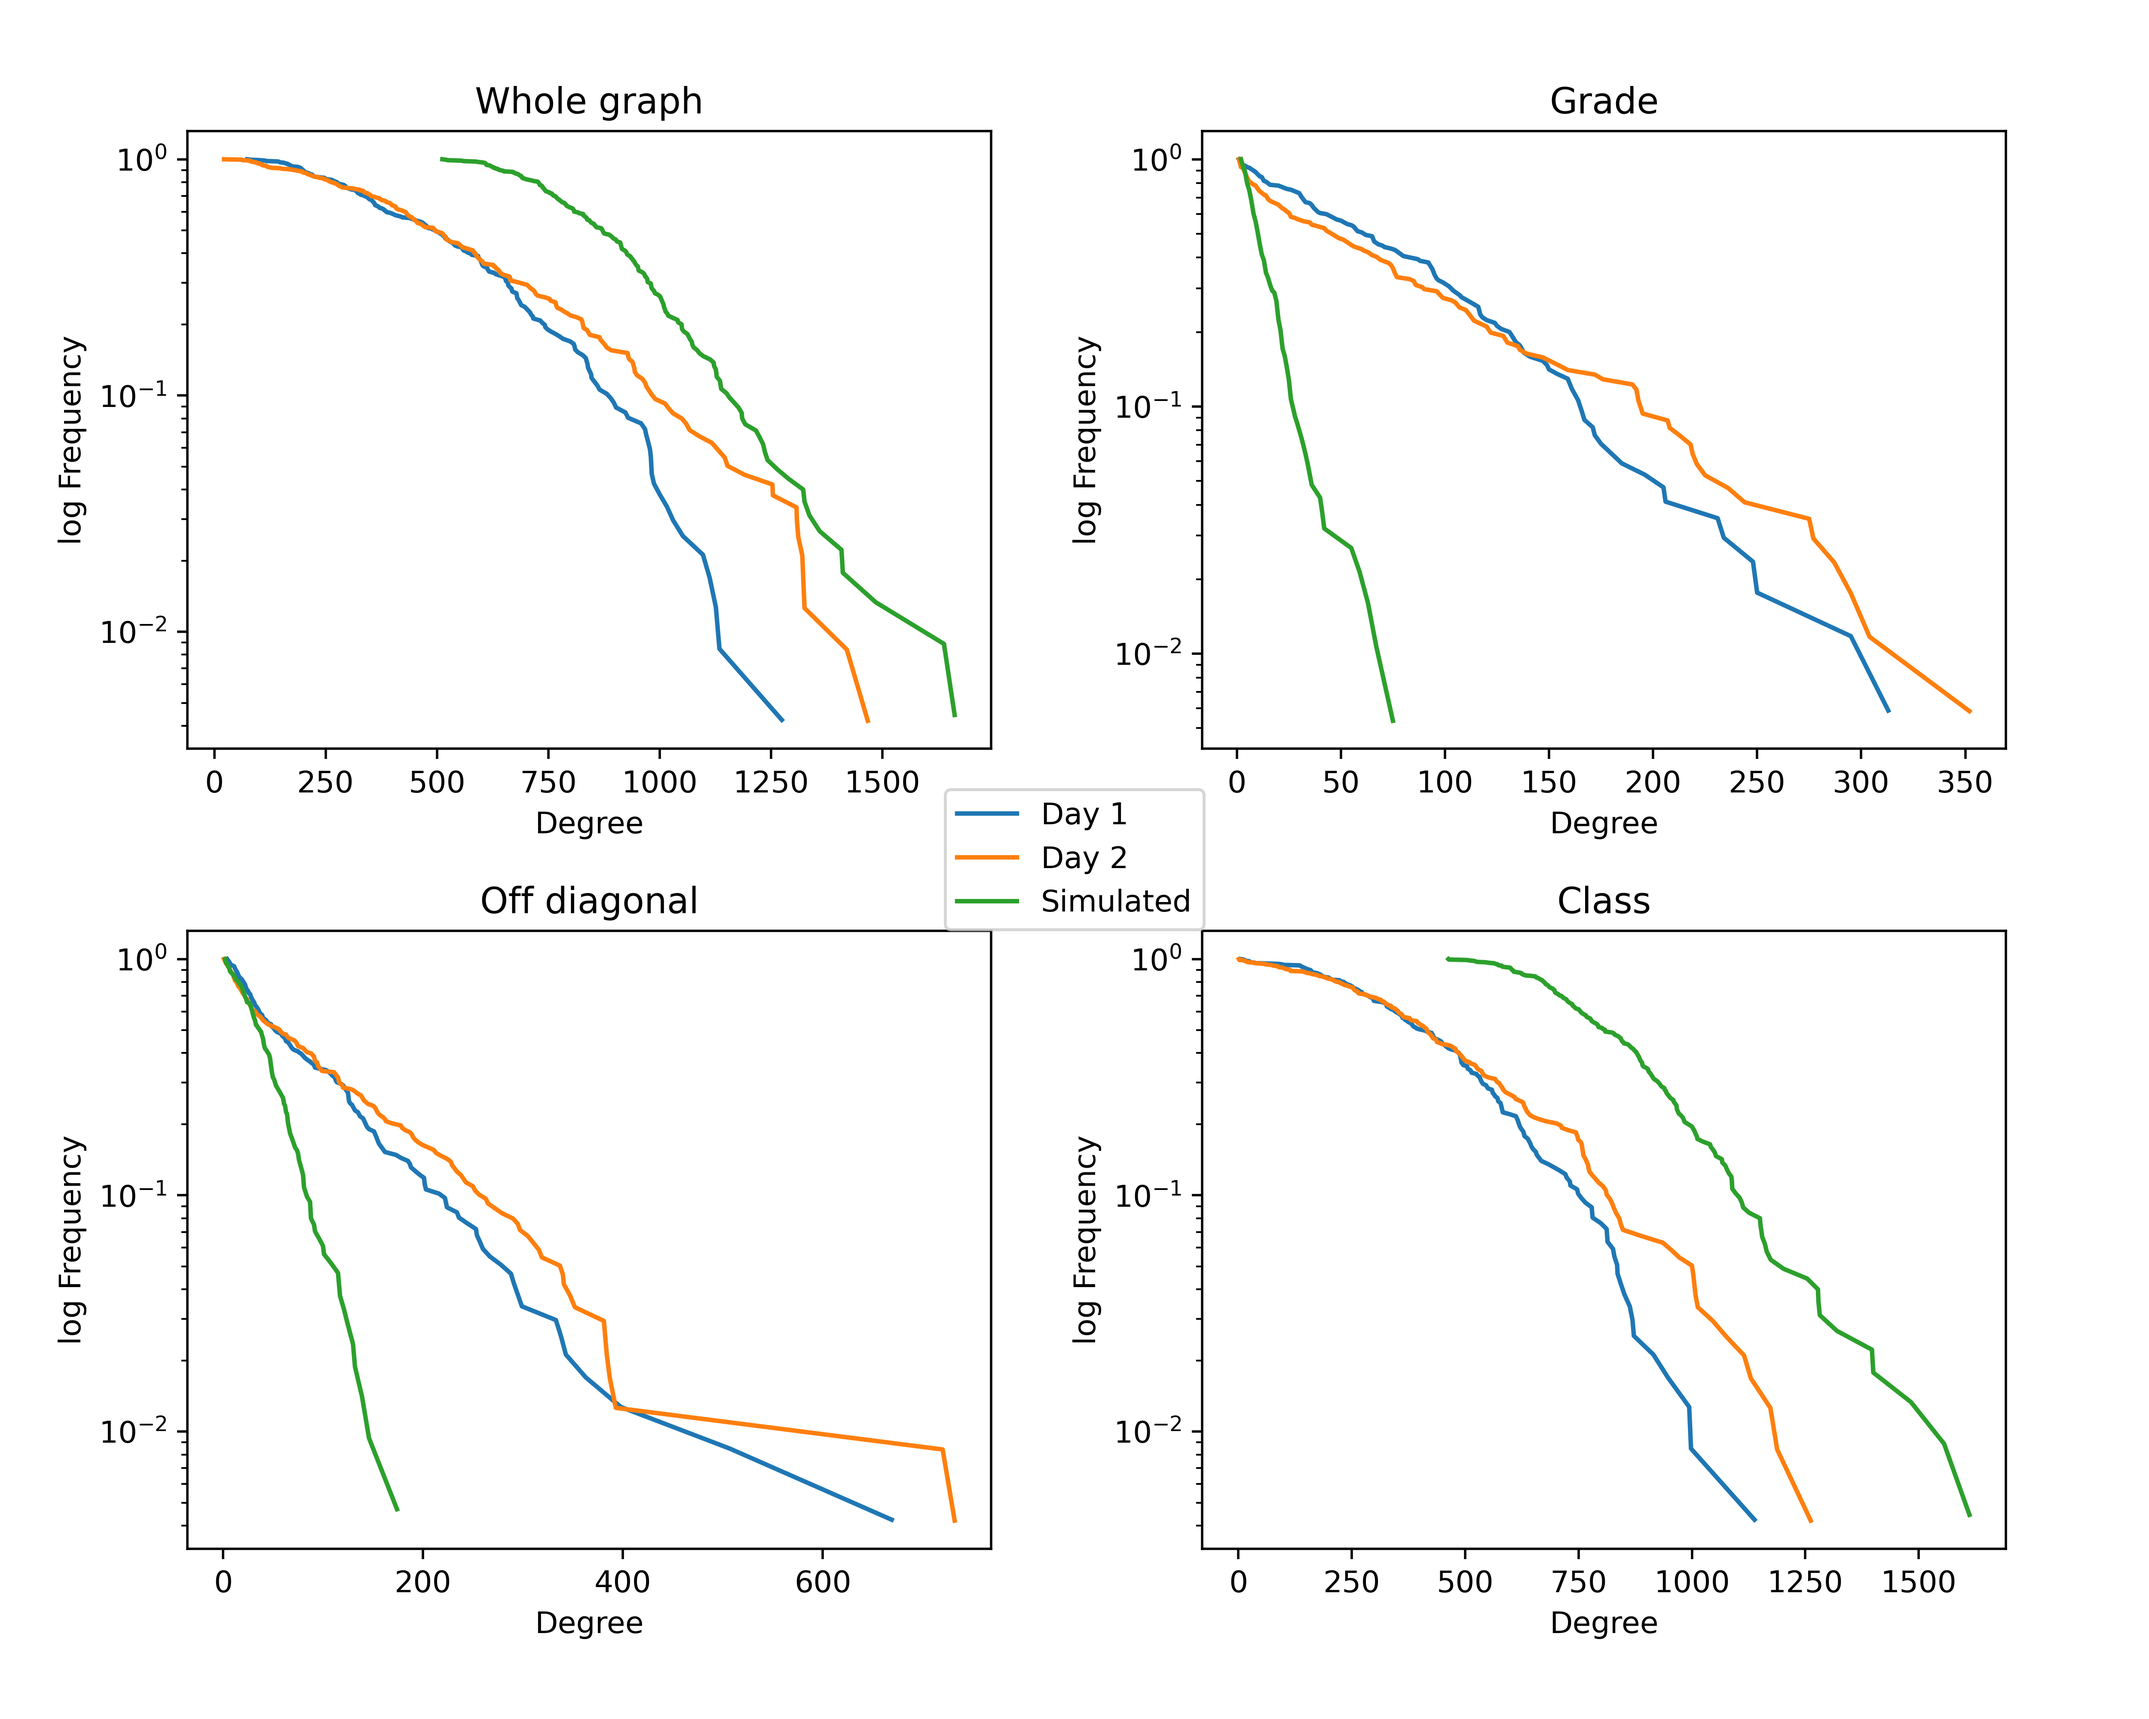
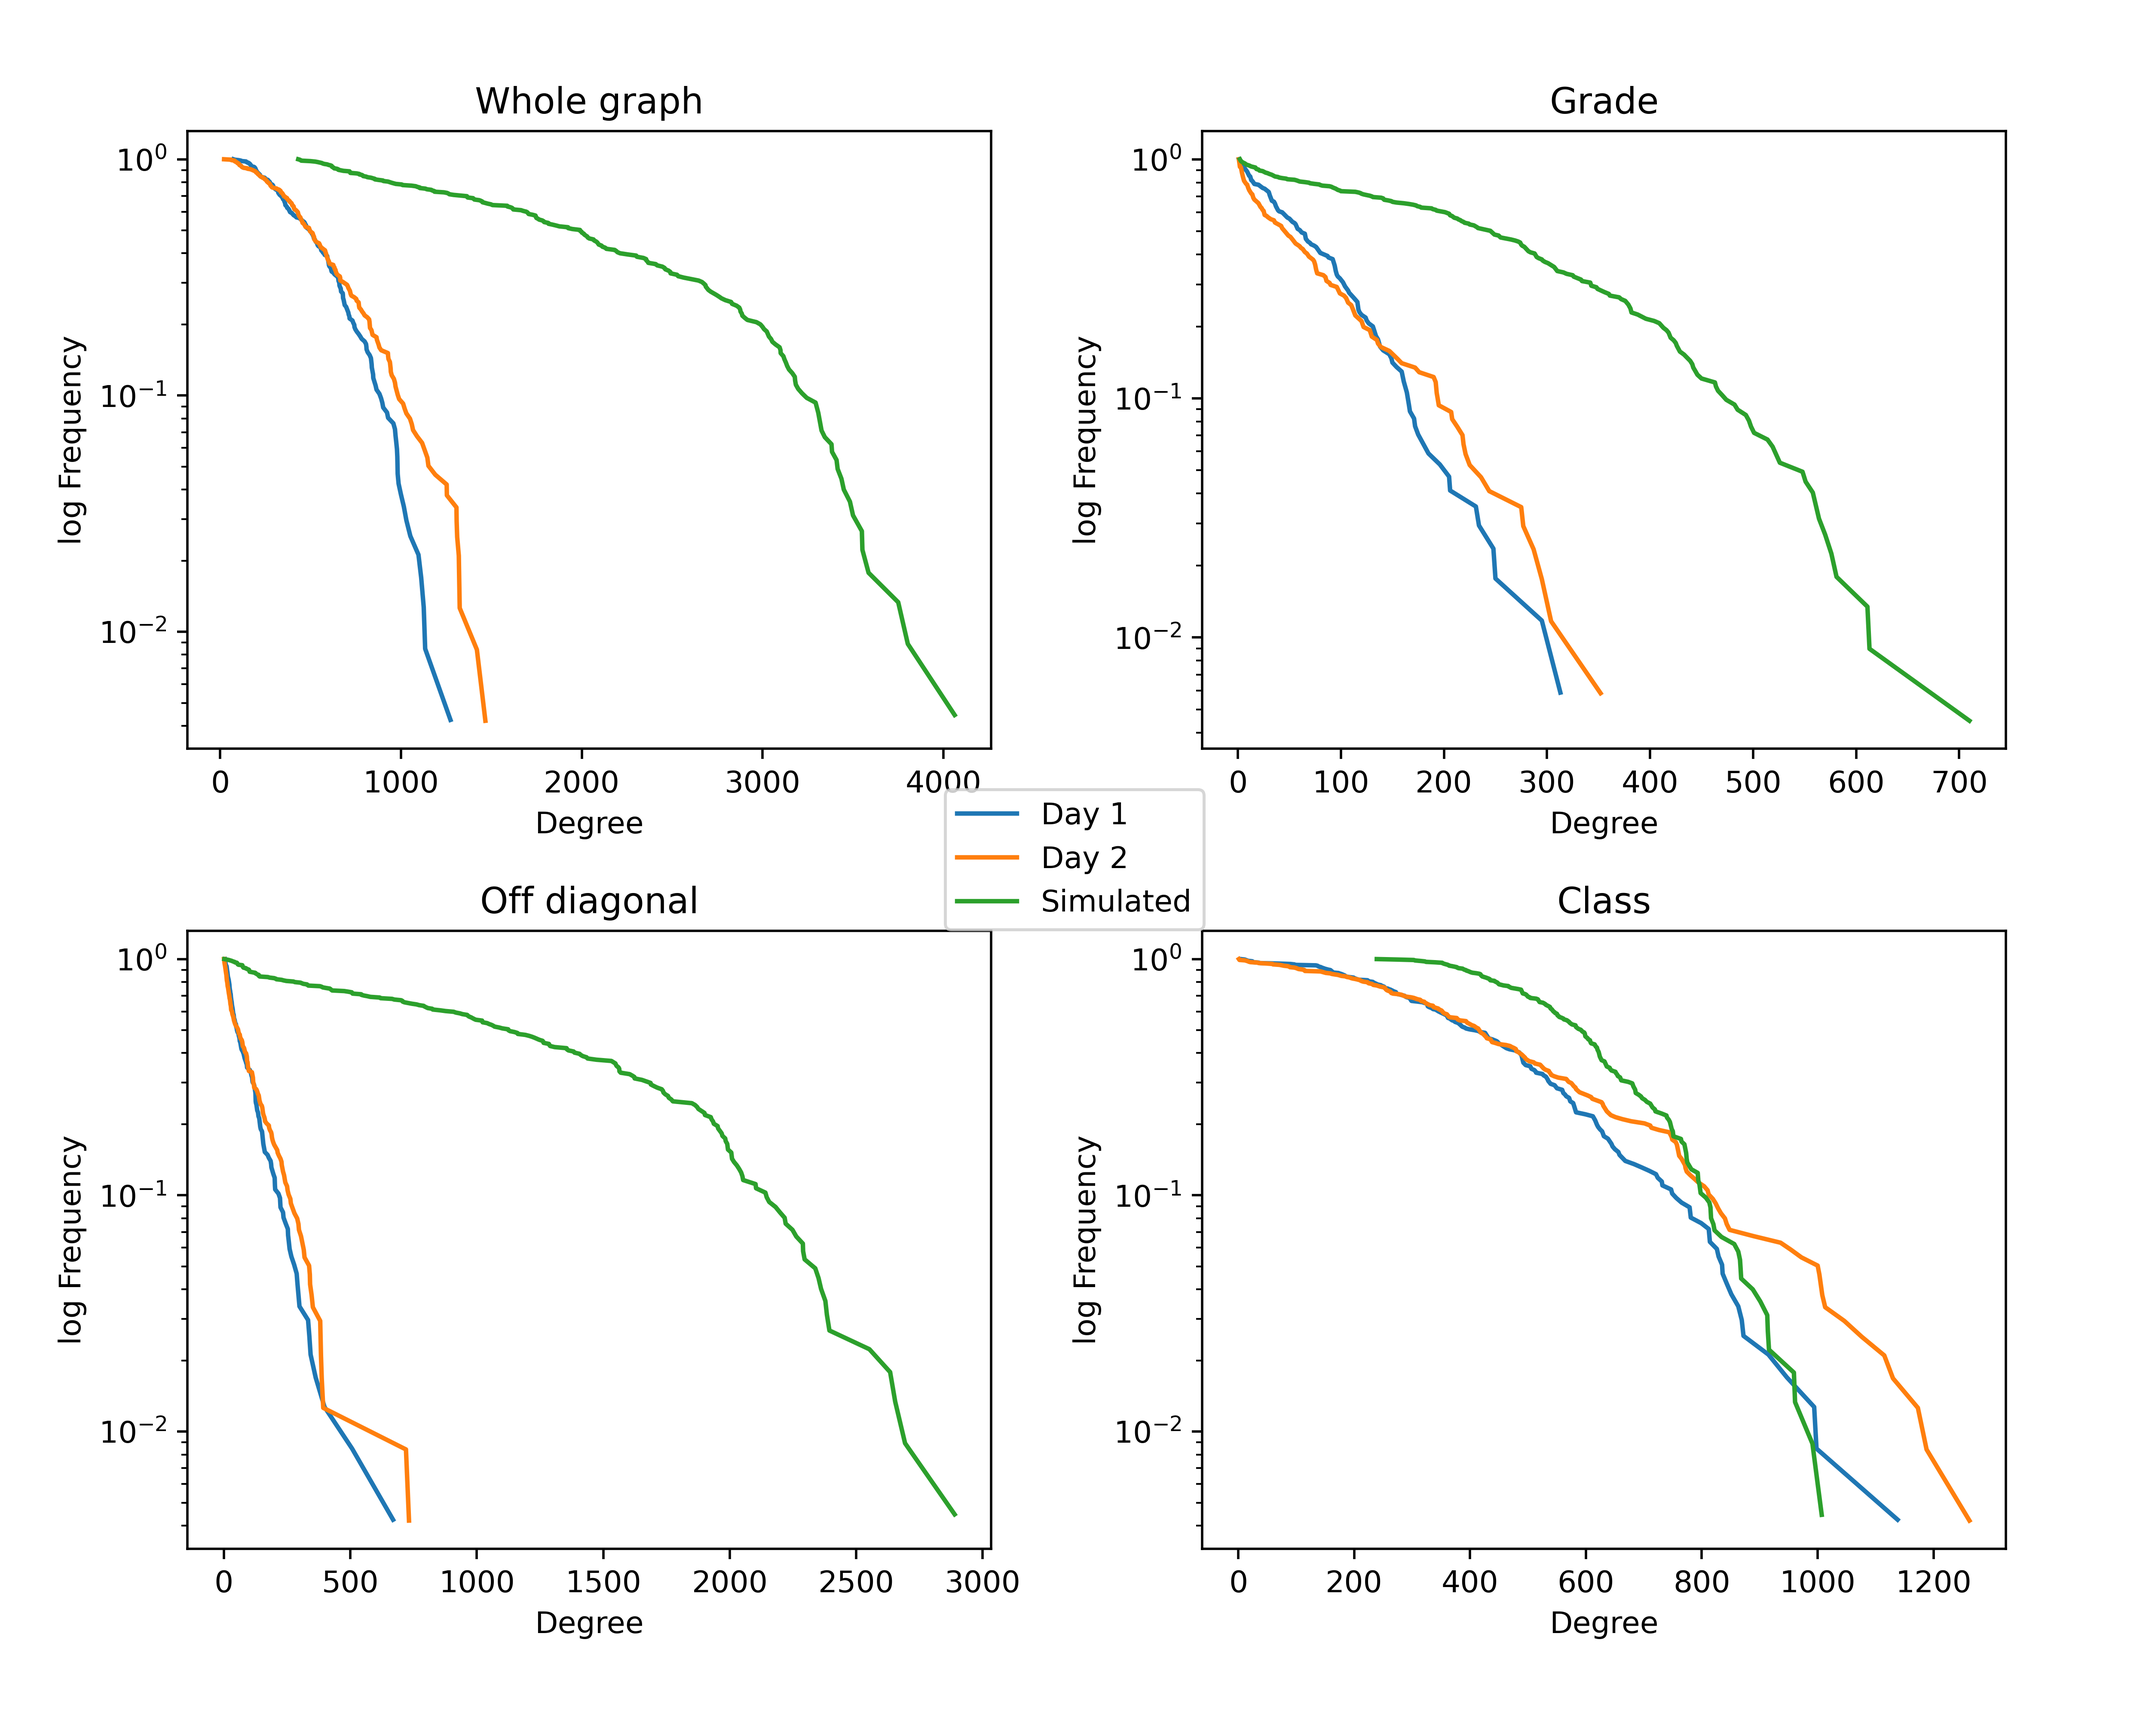
Parameter estimation

diff --git a/main.py b/main.py
@@ -19,9 +19,11 @@ def main():
     G = network.generate_iterations(10)
 
     analysis.pixel_dist_school(G, old=True, both=True)
-    #analysis.degree_distribution_layers(sim=G, experimental=True, both=True)
-    #analysis.heatmap(G)
-    #analysis.runAnalysis2(G)
+    analysis.degree_distribution_layers(sim=G, experimental=True, both=True)
+    # analysis.heatmap(G)
+    # analysis.runAnalysis2(G)
+
+    analysis.outlierDist(G)
 
 
 main()

diff --git a/analysis.py b/analysis.py
@@ -16,6 +16,7 @@ File: analysis.py
 """
 
 import networkx as nx
+from networkx.algorithms import community
 import numpy as np
 import matplotlib.pyplot as plt
 import seaborn as sns
